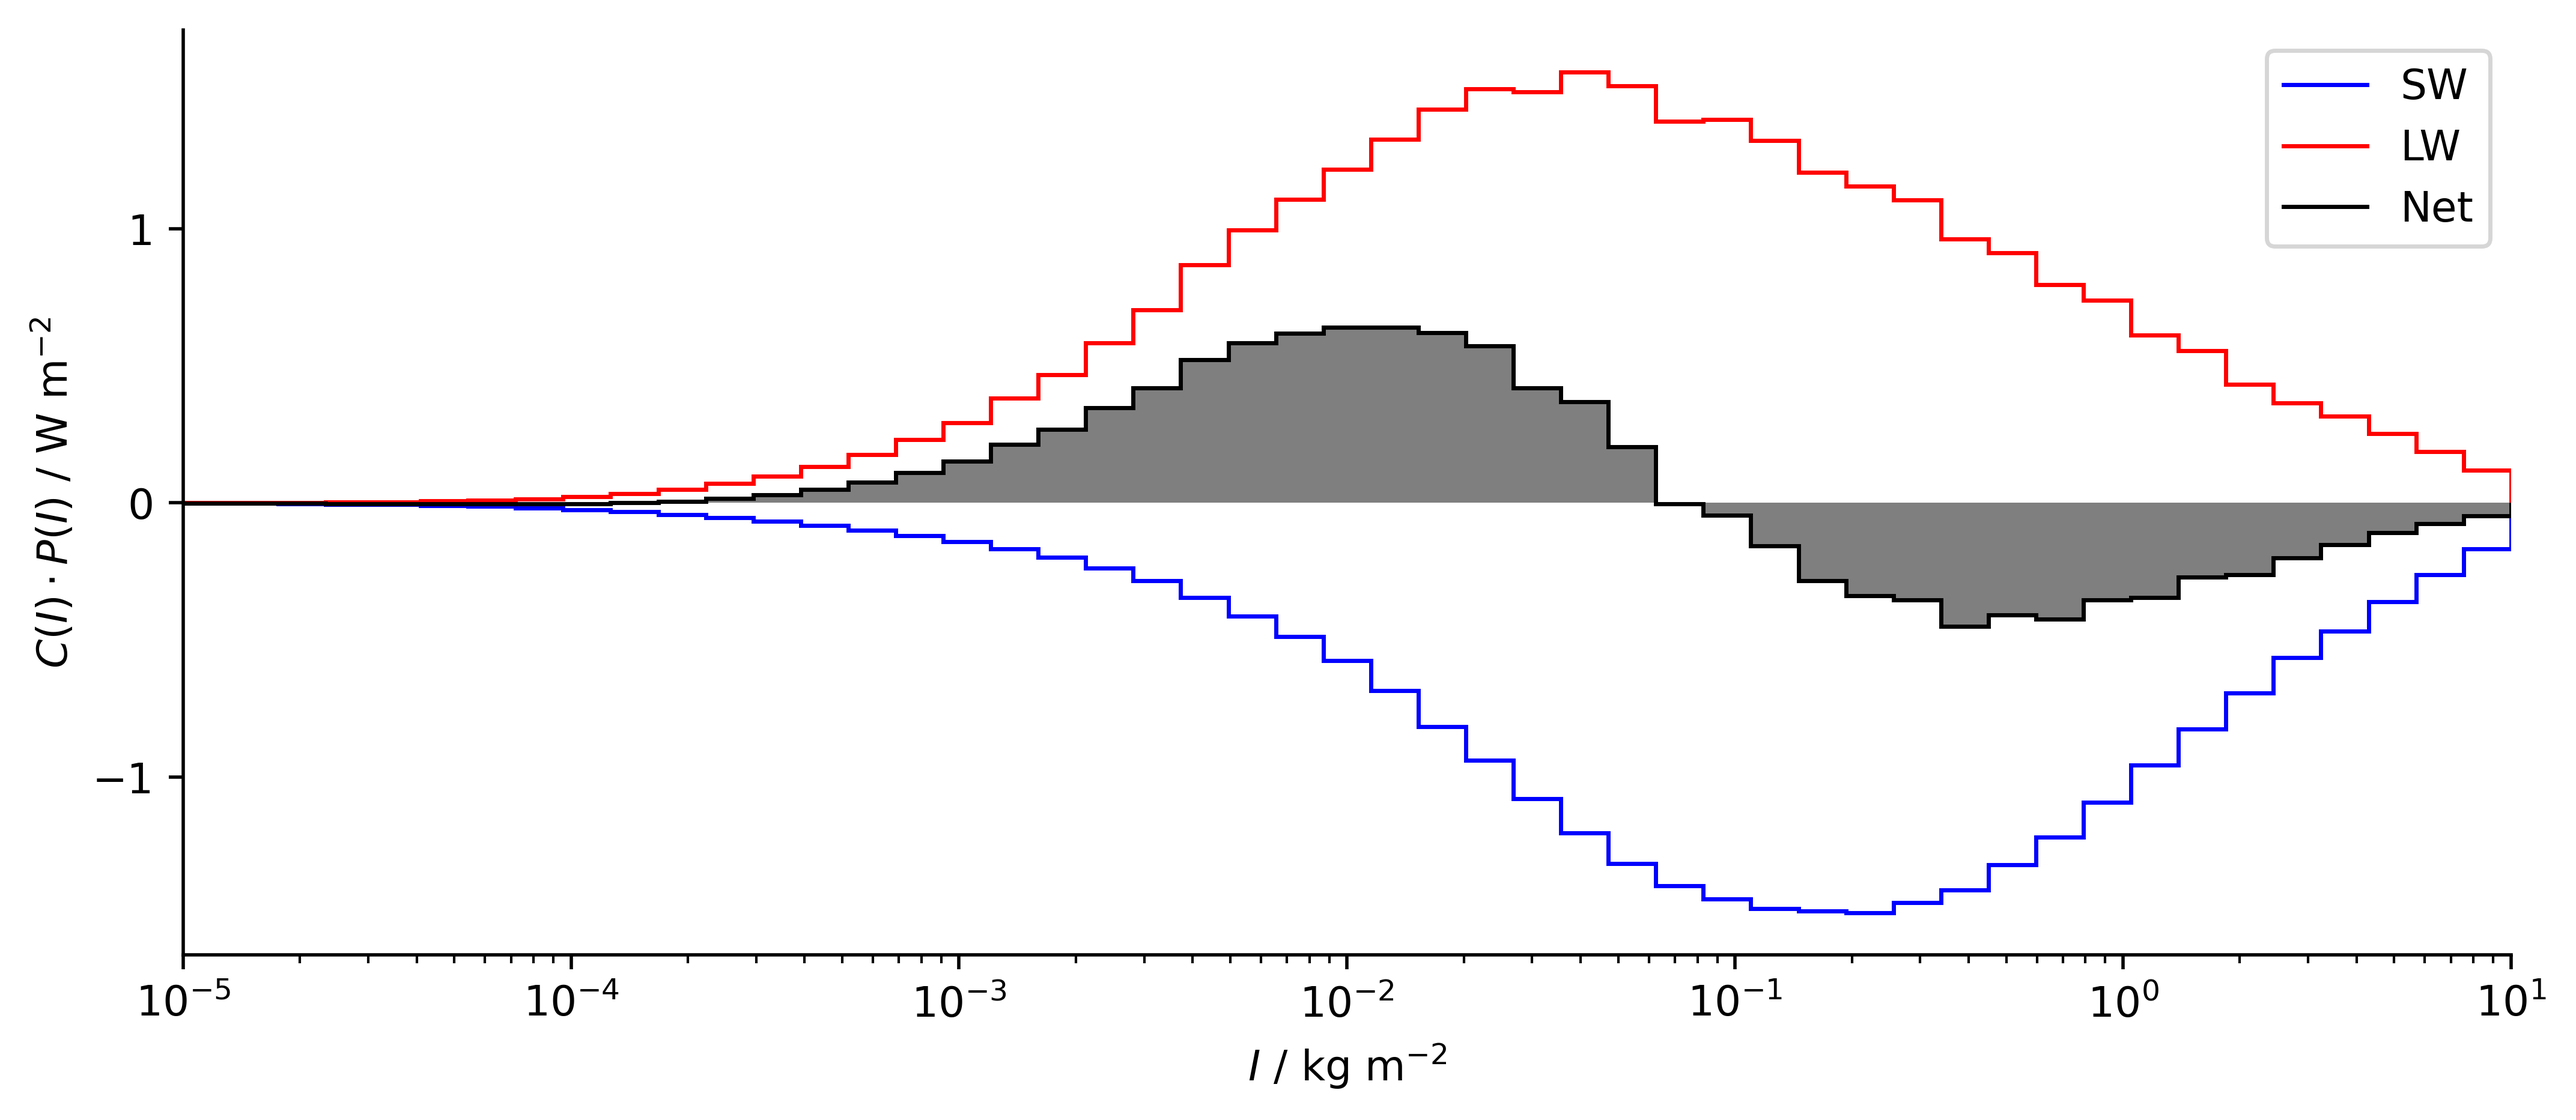
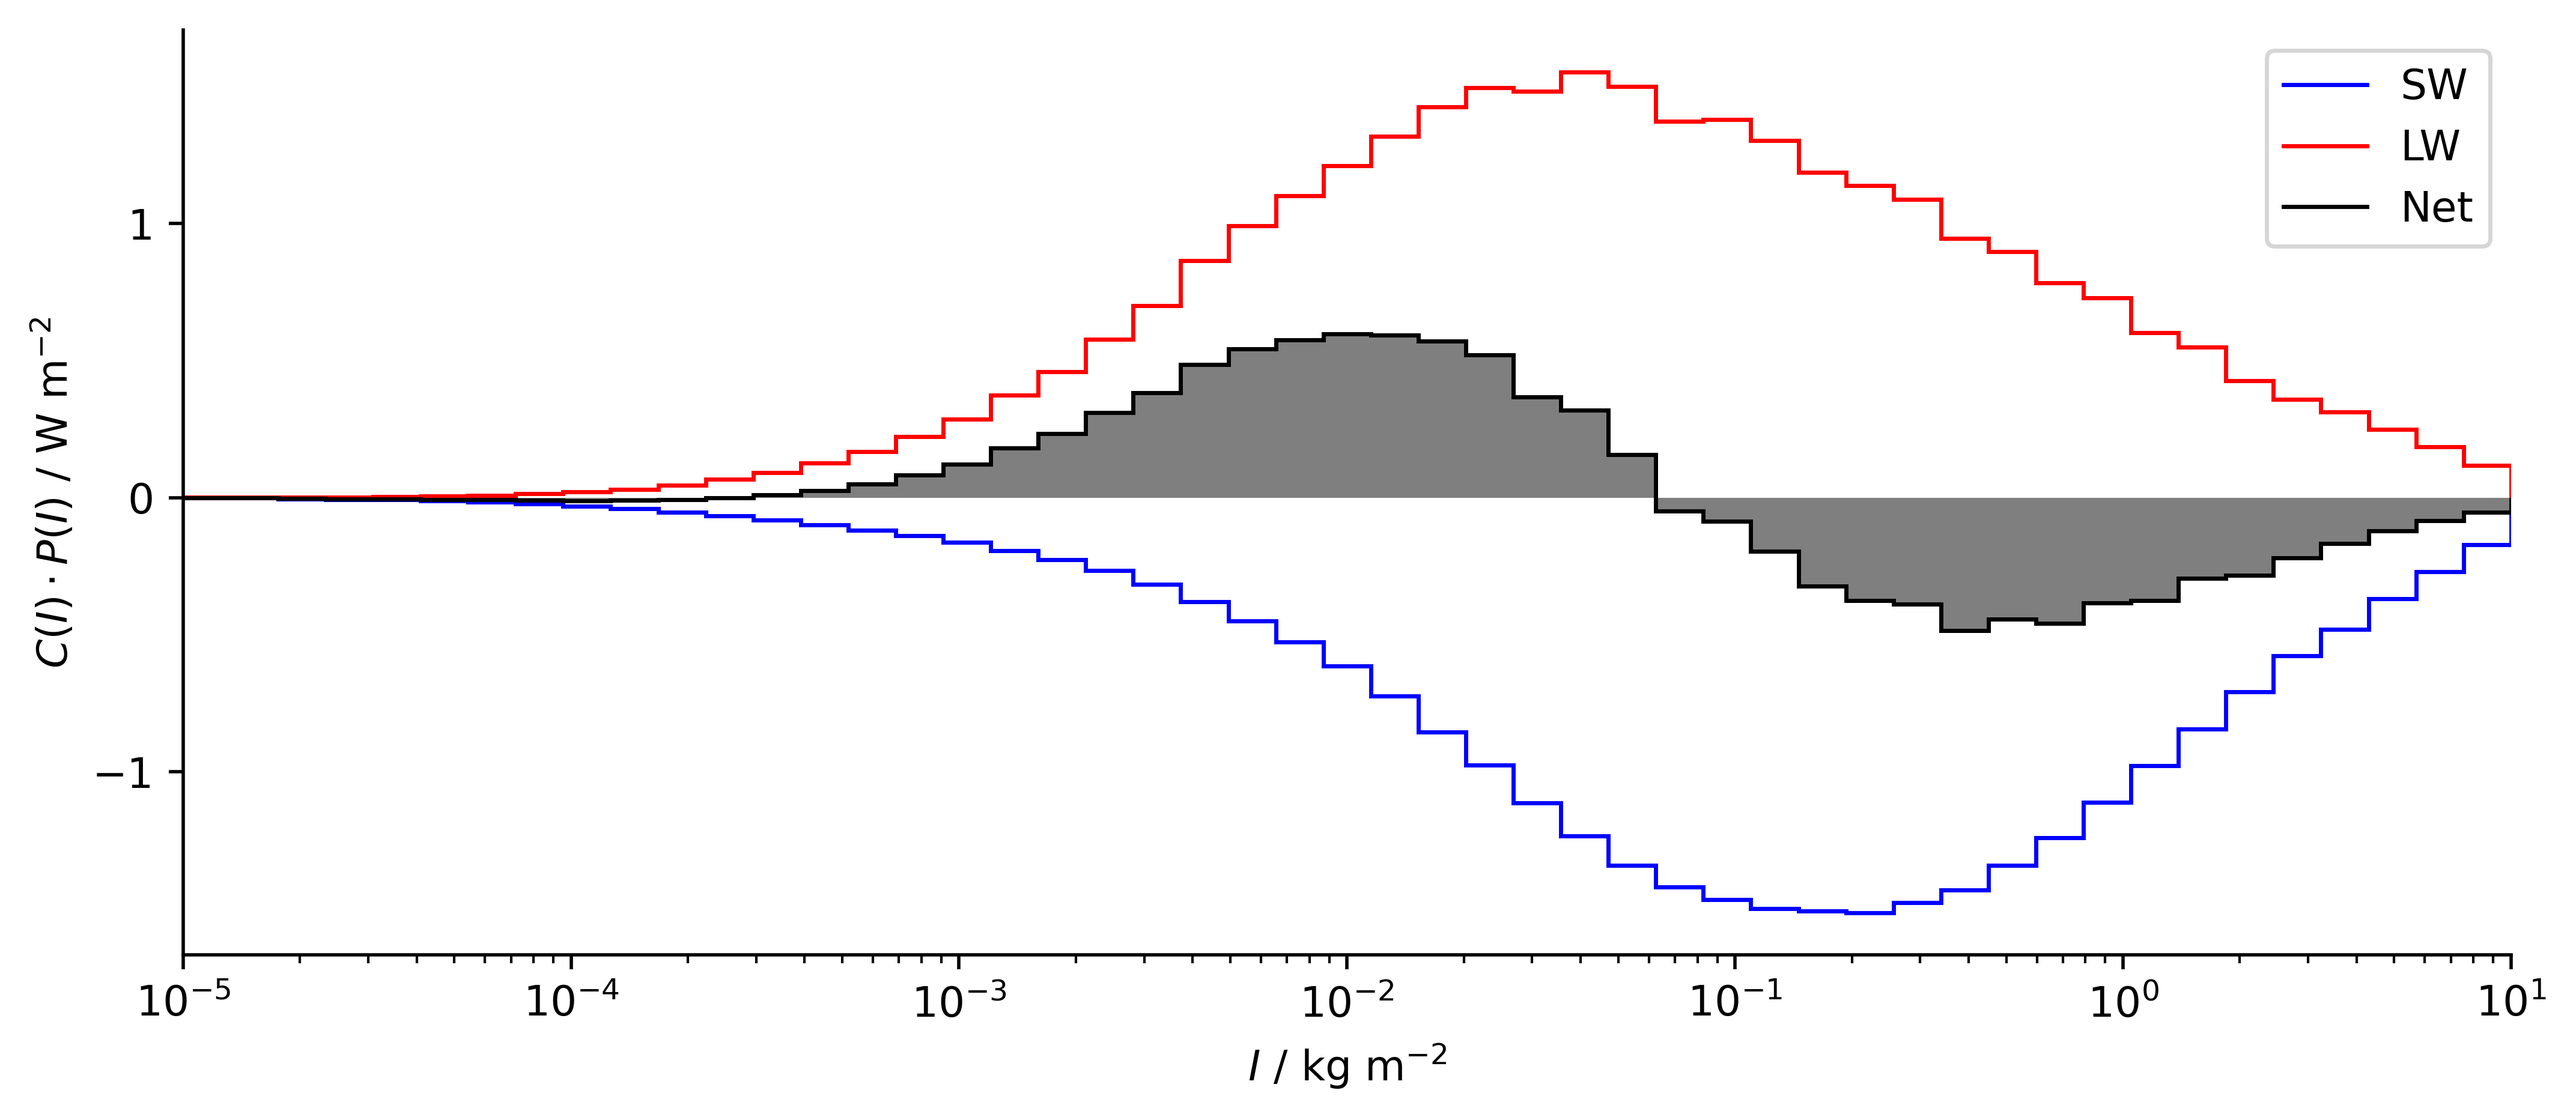
refac: adjust scripts to new model run with corrected scattering

diff --git a/scripts/plot/paper/cloud_profile_iwp.py b/scripts/plot/paper/cloud_profile_iwp.py
@@ -17,7 +17,7 @@ def control_plot(ax):
 cre_binned, cre_mean = load_cre()
 ds = xr.open_dataset("/work/bm1183/m301049/iwp_framework/mons/data/interp_cf.nc")
 ds_monsoon = xr.open_dataset("/work/bm1183/m301049/iwp_framework/mons/data/full_snapshot_proc.nc")
-result = pd.read_pickle("/work/bm1183/m301049/iwp_framework/mons/model_output/prefinal.pkl")
+result = pd.read_pickle("/work/bm1183/m301049/iwp_framework/mons/model_output/prefinal_2.pkl")
 
 # %% bin by IWP and average
 IWP_bins_cf = np.logspace(-5, np.log10(30), 50)
@@ -161,7 +161,7 @@ for ax in axes:
     )
 
 axes[3].set_xlabel("$I$ / kg m$^{-2}$")
-# fig.savefig("plots/paper/cloud_profile_iwp_mons.png", dpi=500, bbox_inches="tight")
+fig.savefig("plots/paper/cloud_profile_iwp_mons.png", dpi=500, bbox_inches="tight")
 
 # %% calculate numbers for text
 

diff --git a/scripts/process_data/process_atms_and_fluxes_mons.py b/scripts/process_data/process_atms_and_fluxes_mons.py
@@ -16,9 +16,9 @@ convention = "arts"
 # %%
 # path = "/work/bm1183/m301049/nextgems_profiles/cycle3/sample_3/"
 path = "/work/bm1183/m301049/iwp_framework/mons/raw_data/"
-run_allksy = "fullrange_flux_mid1deg/"
-run_noice = "fullrange_flux_mid1deg_noice/"
-sample = xr.open_dataset(path + run_allksy + "atms.nc")
+run_allksy = "flux_monsun_Nf10000_1deg/"
+run_noice = "flux_monsun_Nf10000_1deg_nofrozen/"
+sample = xr.open_dataset(path + "fullrange_flux_mid1deg/" + "atms.nc")
 fluxes_allsky = xr.open_dataset(path + run_allksy + "fluxes_3d.nc")
 fluxes_noice = xr.open_dataset(path + run_noice + "fluxes_3d.nc")
 

diff --git a/scripts/plot/paper/plot_folded_cre.py b/scripts/plot/paper/plot_folded_cre.py
@@ -2,16 +2,15 @@
 import matplotlib.pyplot as plt
 import xarray as xr
 import numpy as np
-import pickle
+import pandas as pd
 from src.read_data import load_cre
 
 # %% load data
 ds_monsoon = xr.open_dataset("/work/bm1183/m301049/iwp_framework/mons/data/full_snapshot_proc.nc")
 cre, cre_mean = load_cre()
 path = "/work/bm1183/m301049/iwp_framework/mons/model_output/"
-run = "prefinal"
-with open(path + run + ".pkl", "rb") as f:
-    result = pickle.load(f)
+run = "prefinal_2"
+result = pd.read_pickle(path + run + ".pkl")
 
 # %% multiply hist with cre result
 IWP_bins = np.logspace(-5, 1, num=50)

diff --git a/scripts/plot/paper/cre_comparison.py b/scripts/plot/paper/cre_comparison.py
@@ -4,15 +4,13 @@ import matplotlib.pyplot as plt
 from src.read_data import load_cre
 import pandas as pd
 import xarray as xr
-import pickle
 
 # %% load data
 cre_binned, cre_mean = load_cre()
 ds_monsoon = xr.open_dataset("/work/bm1183/m301049/iwp_framework/mons/data/full_snapshot_proc.nc")
 path = "/work/bm1183/m301049/iwp_framework/mons/model_output/"
-run = "prefinal"
-with open(path + run + ".pkl", "rb") as f:
-    result = pickle.load(f)
+run = "prefinal_2"
+result = pd.read_pickle(path + run + ".pkl")
 
 # %% plot mean CRE vs IWP
 IWP_points = cre_mean["IWP"]

diff --git a/scripts/plot/paper/fancy_results.py b/scripts/plot/paper/fancy_results.py
@@ -26,7 +26,7 @@ parameters = load_parameters()
 cre_binned, cre_average = load_cre()
 atms_raw = xr.open_dataset("/work/bm1183/m301049/iwp_framework/mons/data/full_snapshot_proc.nc")
 path = "/work/bm1183/m301049/iwp_framework/mons/model_output/"
-run = "prefinal"
+run = "prefinal_2"
 result = pd.read_pickle(path + run + ".pkl")
 
 # %% calculate cloud fractions

diff --git a/scripts/model_runs/icon_mons.py b/scripts/model_runs/icon_mons.py
@@ -35,7 +35,7 @@ result = run_model(
 )
 # %% save result 
 path = '/work/bm1183/m301049/iwp_framework/mons/model_output/'
-os.remove(path + 'prefinal.pkl')
-with open(path + 'prefinal.pkl', 'wb') as f:
+os.remove(path + 'prefinal_2.pkl')
+with open(path + 'prefinal_2.pkl', 'wb') as f:
     pickle.dump(result, f)
 # %%
